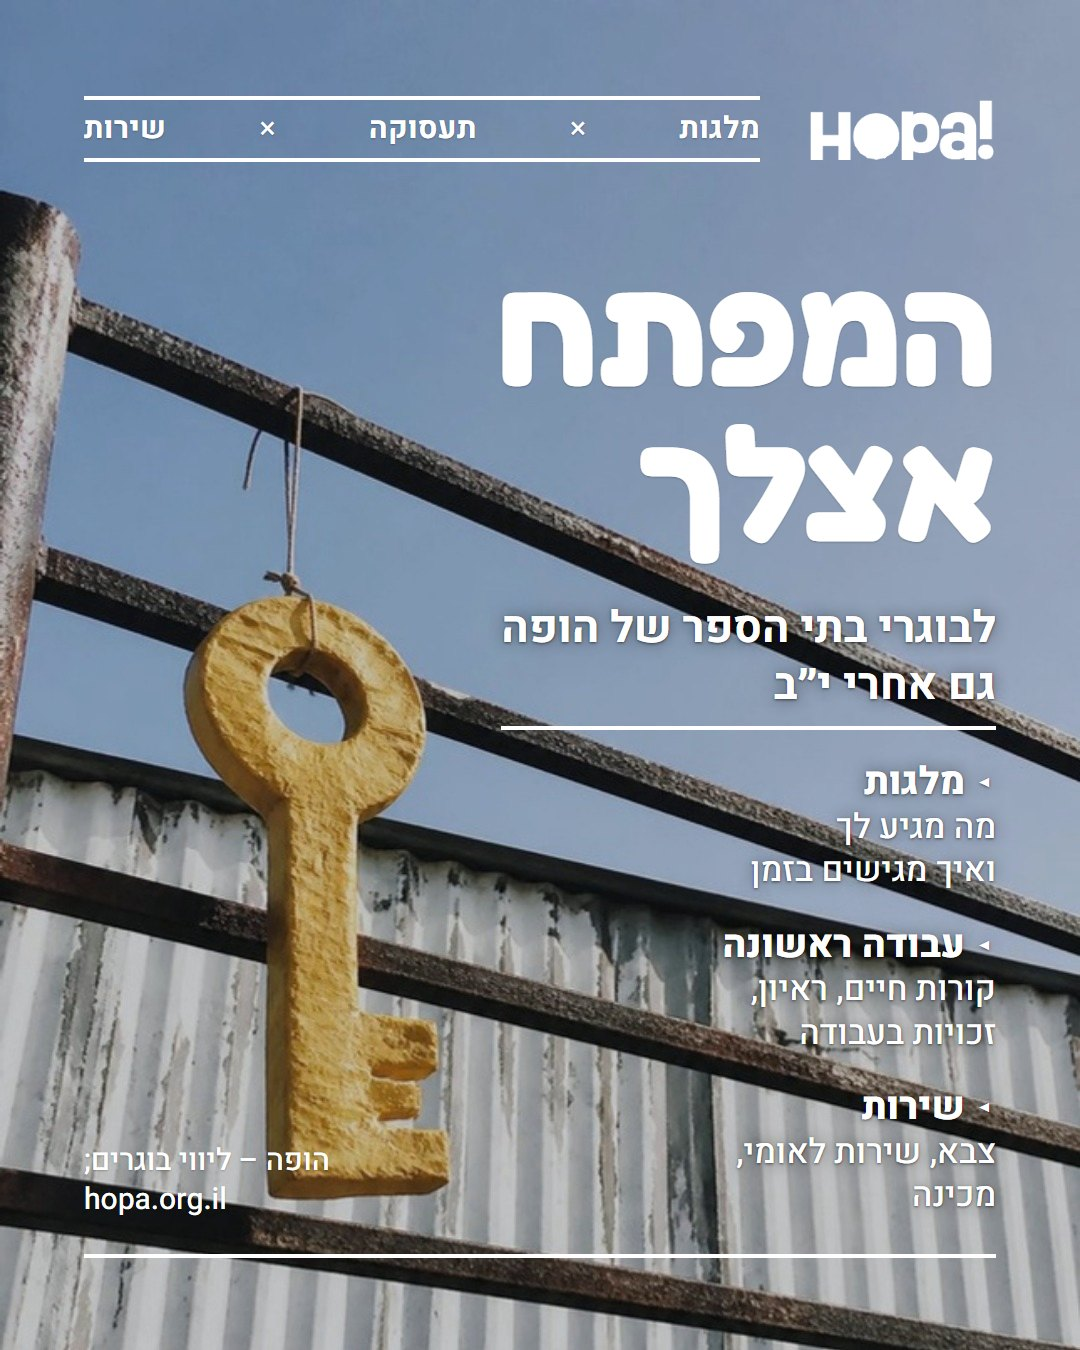
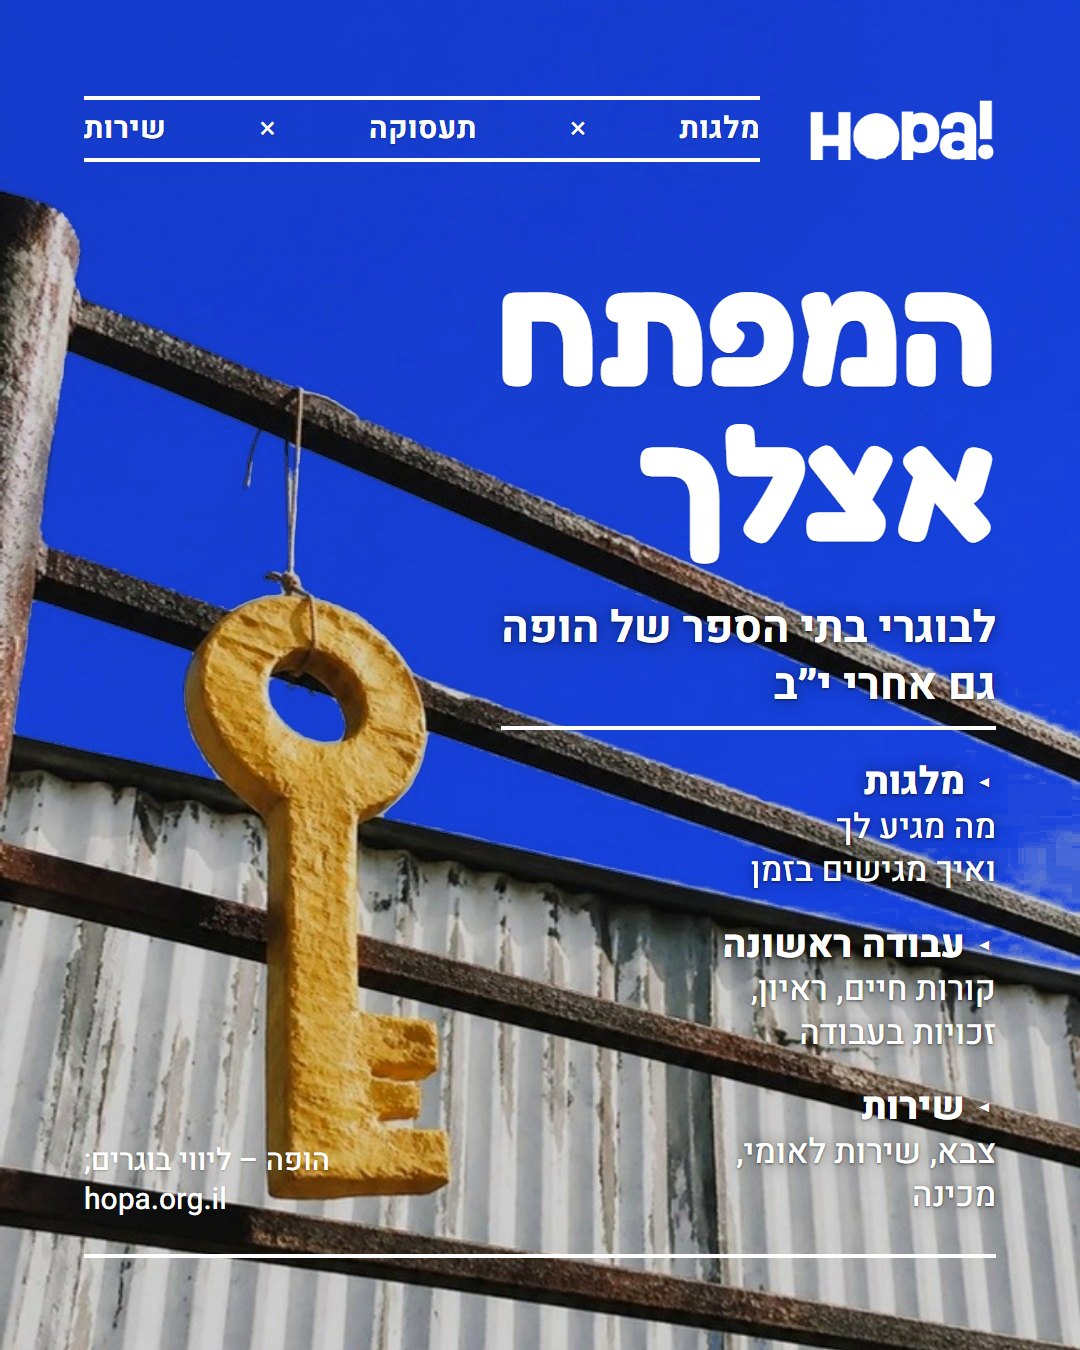
ishur-posts: סדרת גראז' בגרסה צבעונית (לבקשת לירון)

diff --git a/ishur-posts.html b/ishur-posts.html
@@ -118,7 +118,7 @@ var KEY='ishur-posts-';
 var ADMIN='hopa';
 
 var SECTIONS=[
-  {t:'סדרה א׳ · בהשראת גראז׳',d:'צילום חפץ מול השמיים, כותרת לבנה גדולה, לוגו הופה בכל פוסט. תמונה בודדת.',items:[
+  {t:'סדרה א׳ · בהשראת גראז׳',d:'גרסה צבעונית — כל פוסט בצבע משלו, כמו בגראז׳. כותרת לבנה גדולה ולוגו הופה בכל פוסט. תמונה בודדת.',items:[
     {id:'g1',t:'המפתח אצלך',imgs:['garage-1-hamafteach']},
     {id:'g2',t:'לאן ממריאים?',imgs:['garage-2-lean-mamriim']},
     {id:'g3',t:'יש לך כתובת',imgs:['garage-3-yesh-lecha-ktovet']},
